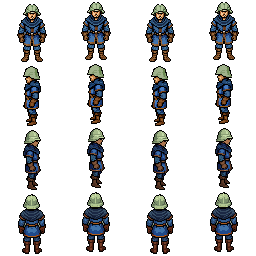
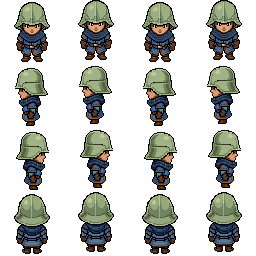
Swap the Warrior for a chibi 64px version
Converted from Qiang's fourth turnaround (ref-v4: about 2.5 heads tall,
oversized helmet, wider body) with the same PixelLab image_to_pixelart
pipeline; east is west mirrored.

Claude-Session: https://claude.ai/code/session_01A4Rh9CevvaR4vh4gfsctrL

diff --git a/.claude/skills/tileset/units-catalog.md b/.claude/skills/tileset/units-catalog.md
@@ -20,17 +20,17 @@ the pack's.
 
 - `Warrior_02` is the warrior class's art (`UNIT_SPRITES.warrior`, also
   `DEFAULT_UNIT_SPRITE`). It is now **64px art** (256x256 sheets, `frame: 64`),
-  replacing the 32px recreation described in this section: a stocky foot
-  soldier in a sage-green kettle helmet, navy hood and scarf, royal-blue tunic
-  with brown trim, brown belt with a silver buckle, brown gloves and boots,
-  blue trousers. No weapon shows; the face stays in the helmet's shadow. Four
-  stills made from Qiang's third, bulkier pixel turnaround with PixelLab
-  `image_to_pixelart` at 64x64 (faithful, strength 120; east from its own view,
-  not mirrored), helmets pulled to one sage and the buckle recolored silver
-  (process in the project files at `art/warrior-64/`, finals in `out-v3/`).
-  Assembled by `scripts/assemble-unit-sheet.js`; footprint about x 17–46,
-  y 2–61, feet on y 61, so it has only 2px of headroom and idle sinks 2px and
-  move hops 2px (not 4).
+  replacing the 32px recreation described in this section: a chibi foot
+  soldier (about 2.5 heads tall) under an oversized sage-green kettle helmet,
+  chunky navy scarf, royal-blue tunic with brown trim, brown belt with a silver
+  buckle, brown gloves and ankle boots. No weapon shows. Four stills made from
+  Qiang's fourth turnaround (`ref-v4`) with PixelLab `image_to_pixelart` at
+  64x64 (faithful, strength 120), helmets pulled to one sage and the buckle
+  recolored silver; east is west mirrored (process in the project files at
+  `art/warrior-64/`, finals in `out-v4/`). Assembled by
+  `scripts/assemble-unit-sheet.js`; footprint about x 14–49, y 2–61, feet on
+  y 61, so it has only 2px of headroom and idle sinks 2px and move hops 2px
+  (not 4).
 - `Amazon_01` is the archer class's art (`UNIT_SPRITES.archer`, replacing
   `Archer_02`): a woman with a big blonde mane and a green headband, light
   blue top, white short skirt, bare tan arms and legs, green boots. No weapon
